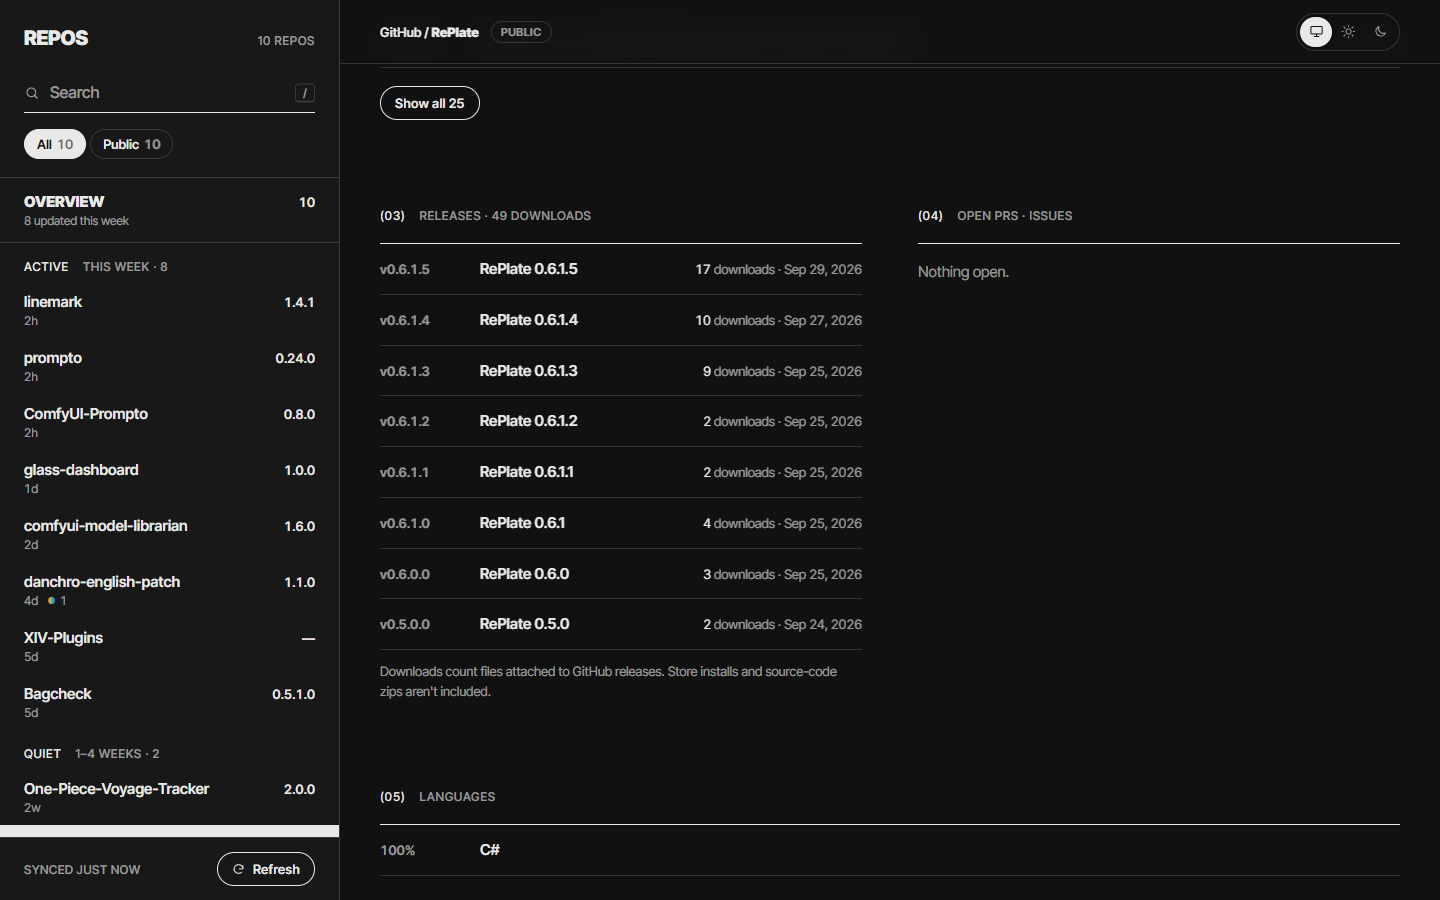
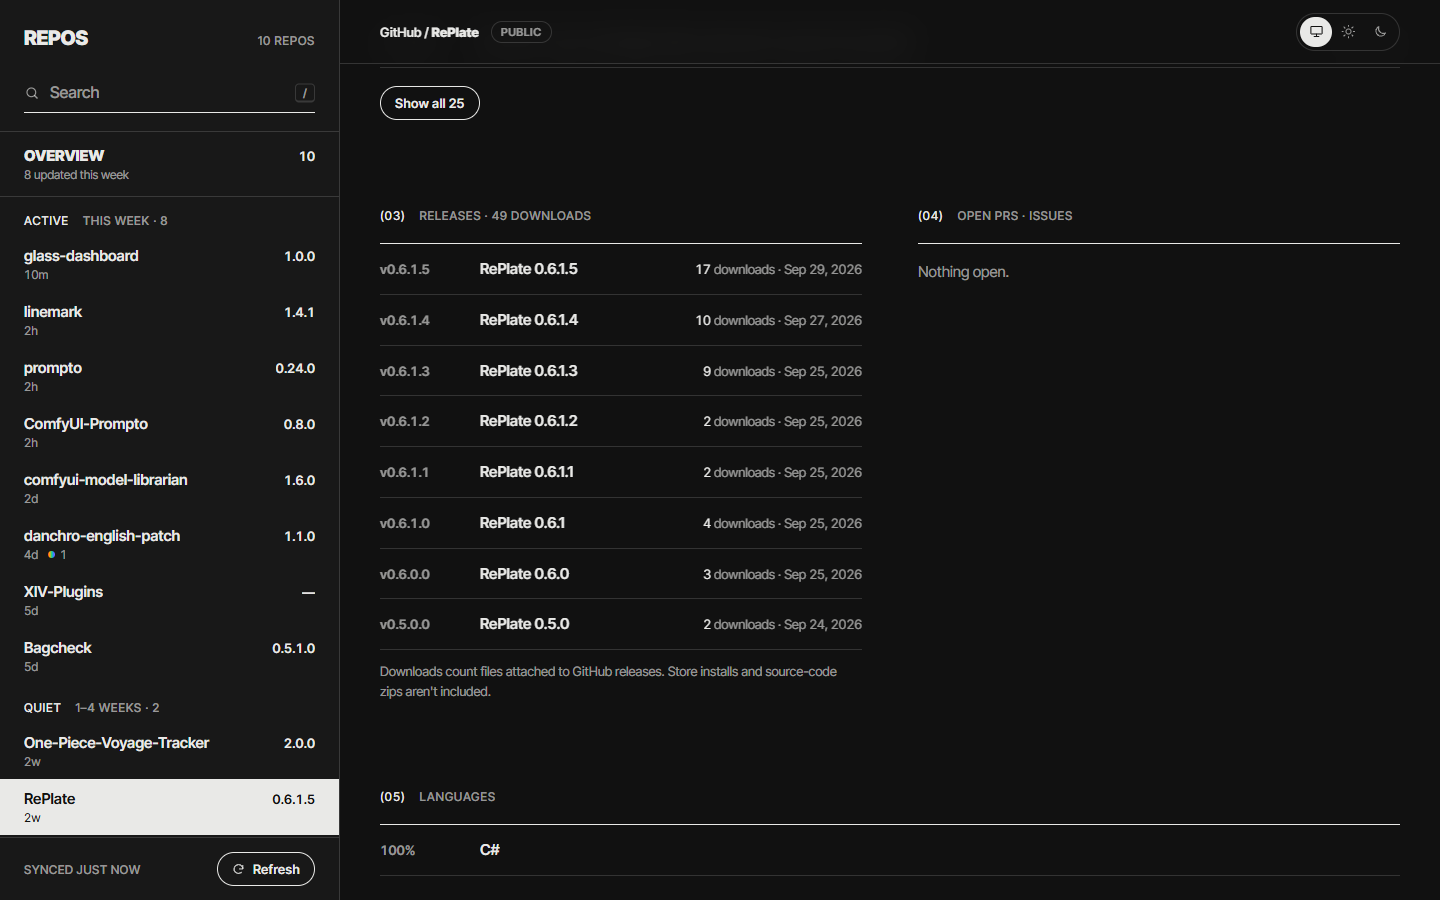
Design review fixes: generic data, colour rules, honest README
- Rail: no invented dash for a missing value (adapters say so themselves),
  values capped with an ellipsis, status dots turn ground-coloured under
  the selection fill
- Filter tabs: none for a badge every item has, up to 8, row hidden when
  there's nothing to filter
- Long keys and labels wrap inside their column; long names ellipsise in
  the top bar without clipping focus rings
- One crumb grammar for the overview and items
- JSON source and page understand future dates ("+5w", "in 5 weeks")
- ADAPTERS.md: tone rules (accent is rare, fail only for broken things)
  and the no-placeholder rule
- README: stale-repo wording, external font and three.js loads disclosed,
  screenshots recaptured

diff --git a/public/index.html b/public/index.html
@@ -89,6 +89,7 @@ button { font: inherit; color: inherit; }
   font: 600 11px "Inter Tight", sans-serif; color: var(--mute); text-align: center;
 }
 .tabs { display: flex; flex-wrap: wrap; gap: 6px 4px; margin-top: 16px; }
+.tabs[hidden] { display: none; }
 .tabs button {
   padding: 6px 12px; border: 1px solid var(--line); border-radius: 999px; background: transparent; cursor: pointer;
   font-size: 13px; font-weight: 600; transition: background 0.25s var(--ease), color 0.25s var(--ease), border-color 0.25s;
@@ -113,7 +114,7 @@ button { font: inherit; color: inherit; }
 .row:hover > *, .row[aria-current="page"] > *, .row:hover .row-sub, .row[aria-current="page"] .row-sub { color: var(--bg); }
 .row:focus-visible { outline-offset: -2px; }
 .row-name { min-width: 0; overflow: hidden; text-overflow: ellipsis; white-space: nowrap; font-size: 15px; font-weight: 600; }
-.row-ver { font-size: 13px; font-weight: 600; font-variant-numeric: tabular-nums; }
+.row-ver { max-width: 140px; justify-self: end; overflow: hidden; text-overflow: ellipsis; white-space: nowrap; font-size: 13px; font-weight: 600; font-variant-numeric: tabular-nums; }
 .row-sub { grid-column: 1 / -1; display: flex; align-items: center; gap: 10px; font-size: 12px; color: var(--mute); font-variant-numeric: tabular-nums; }
 .row-overview { padding-top: 14px; padding-bottom: 14px; border-bottom: 1px solid var(--line); }
 .row-overview .row-name { font-weight: 900; text-transform: uppercase; letter-spacing: -0.01em; }
@@ -125,6 +126,8 @@ button { font: inherit; color: inherit; }
 .mark--plain i { display: none; }
 .mark--fail i { background: var(--err); }
 .mark--pending i { background: var(--warn); }
+.row:hover .mark--fail i, .row[aria-current="page"] .mark--fail i,
+.row:hover .mark--pending i, .row[aria-current="page"] .mark--pending i { background: var(--bg); }
 .mark--new i { width: 14px; height: 2px; border-radius: 1px; background: var(--prism); }
 .mark .ico { font-size: 12px; }
 
@@ -158,6 +161,8 @@ button { font: inherit; color: inherit; }
   -webkit-backdrop-filter: blur(14px); backdrop-filter: blur(14px); border-bottom: 1px solid var(--line);
 }
 .crumb { display: flex; align-items: center; gap: 12px; min-width: 0; font-size: 13px; font-weight: 600; }
+.crumb-name { min-width: 0; overflow: hidden; text-overflow: ellipsis; white-space: nowrap; }
+.crumb .pill { flex-shrink: 0; }
 .crumb a { text-decoration: none; white-space: nowrap; }
 .crumb a:hover { text-decoration: underline; text-underline-offset: 3px; }
 .crumb .muted { color: var(--mute); font-weight: 500; }
@@ -236,7 +241,9 @@ button { font: inherit; color: inherit; }
 .list a *, .links a * { transition: color 0.3s var(--ease); }
 .list a:hover, .list a:hover *, .links a:hover, .links a:hover * { color: var(--bg); }
 .list a:hover .mark--fail i { background: var(--bg); }
-.list .k { font-size: 13px; font-weight: 600; color: var(--mute); font-variant-numeric: tabular-nums; }
+.list .k { min-width: 0; overflow-wrap: anywhere; font-size: 13px; font-weight: 600; color: var(--mute); font-variant-numeric: tabular-nums; }
+.list .k .mark { white-space: normal; align-items: baseline; }
+.list .k .mark i { flex-shrink: 0; align-self: center; }
 .list .t { font-weight: 600; min-width: 0; overflow-wrap: anywhere; }
 .list .t em { font-style: normal; font-weight: 500; color: var(--mute); }
 .list .r { font-size: 13px; color: var(--mute); font-variant-numeric: tabular-nums; white-space: nowrap; text-align: right; }
@@ -274,7 +281,7 @@ button { font: inherit; color: inherit; }
 .stats > div:nth-child(n + 5) { margin-top: 32px; }
 .stats b { display: block; font-size: clamp(44px, 5.6vw, 96px); font-weight: 900; line-height: 0.9; letter-spacing: -0.05em; font-variant-numeric: tabular-nums; }
 .stats span { display: block; margin-top: 12px; font-size: 12px; font-weight: 500; letter-spacing: 0.06em; text-transform: uppercase; color: var(--mute); }
-.attn a { grid-template-columns: 200px minmax(0, 1fr) auto; }
+.attn a { grid-template-columns: minmax(0, 200px) minmax(0, 1fr) auto; }
 
 /* Notices */
 .notice { max-width: 60ch; padding: 32px 0; }
@@ -413,13 +420,15 @@ button { font: inherit; color: inherit; }
   const rtf = new Intl.RelativeTimeFormat("en", { numeric: "auto" });
   const ago = (iso) => {
     if (!iso) return "never";
-    const s = (Date.now() - Date.parse(iso)) / 1000;
+    // Works both ways: "3 hours ago" for the past, "in 5 weeks" for the future
+    const diff = (Date.now() - Date.parse(iso)) / 1000, s = Math.abs(diff), dir = diff >= 0 ? -1 : 1;
     if (s < 60) return "just now";
-    if (s < 3600) return rtf.format(-Math.round(s / 60), "minute");
-    if (s < 86400) return rtf.format(-Math.round(s / 3600), "hour");
-    if (s < 86400 * 30) return rtf.format(-Math.round(s / 86400), "day");
-    if (s < 86400 * 365) return rtf.format(-Math.round(s / (86400 * 30)), "month");
-    return rtf.format(-Math.round(s / (86400 * 365)), "year");
+    if (s < 3600) return rtf.format(dir * Math.round(s / 60), "minute");
+    if (s < 86400) return rtf.format(dir * Math.round(s / 3600), "hour");
+    if (s < 86400 * 14) return rtf.format(dir * Math.round(s / 86400), "day");
+    if (s < 86400 * 60) return rtf.format(dir * Math.round(s / (86400 * 7)), "week");
+    if (s < 86400 * 365) return rtf.format(dir * Math.round(s / (86400 * 30)), "month");
+    return rtf.format(dir * Math.round(s / (86400 * 365)), "year");
   };
   const short = (iso) => {
     if (!iso) return "";
@@ -488,8 +497,11 @@ button { font: inherit; color: inherit; }
     // Filters come from the items' own badges (Public/Private for GitHub, your tags for JSON)
     const counts = new Map();
     state.data.items.forEach((it) => it.badges.forEach((b) => counts.set(b, (counts.get(b) || 0) + 1)));
-    const top = [...counts].sort((a, b) => b[1] - a[1]).slice(0, 4);
+    // A badge every item carries filters nothing, so it gets no tab
+    const top = [...counts].filter(([, n]) => n < state.data.items.length).sort((a, b) => b[1] - a[1]).slice(0, 8);
     if (state.filter !== "all" && !counts.has(state.filter)) state.filter = "all";
+    // With nothing to filter by, a lone "All" chip would be a control that does nothing
+    $("[data-tabs]").hidden = !top.length;
     $("[data-tabs]").innerHTML = [["all", "All", state.data.items.length], ...top.map(([b, n]) => [b, b, n])]
       .map(([v, label, n]) => `<button type="button" data-filter="${esc(v)}" aria-pressed="${state.filter === v}">${esc(label)}<span class="count">${n}</span></button>`).join("");
     document.querySelectorAll("[data-filter]").forEach((b) => b.addEventListener("click", () => { state.filter = b.dataset.filter; renderTabs(); renderRail(); }));
@@ -516,7 +528,7 @@ button { font: inherit; color: inherit; }
           ${rs.map((it) => `
             <a class="row" href="#/item/${encodeURIComponent(it.id)}" data-id="${esc(it.id)}" ${current === it.id ? 'aria-current="page"' : ""}>
               <span class="row-name">${esc(it.name)}</span>
-              <span class="row-ver">${it.short ? esc(it.short) : "—"}</span>
+              ${it.short ? `<span class="row-ver">${esc(it.short)}</span>` : ""}
               <span class="row-sub"><span>${short(it.updatedAt)}</span>${marks(it)}</span>
             </a>`).join("")}
         </section>`).join("")}
@@ -552,7 +564,9 @@ button { font: inherit; color: inherit; }
   };
 
   // Facts: a definition grid; absent values are said in words
-  const factsHtml = (facts) => !facts.length ? "" : `<dl class="facts rv">${facts.map((f) => {
+  const factsHtml = (all) => {
+    const facts = all.filter((f) => f.value || f.time);
+    return !facts.length ? "" : `<dl class="facts rv">${facts.map((f) => {
     let value = f.time ? esc(ago(f.time)) : esc(f.value);
     if (f.count != null && !f.time) value = `<span data-count="${f.count}">${esc(f.value)}</span>`;
     if (f.tone === "accent") value = `<span class="prism">${value}</span>`;
@@ -560,6 +574,7 @@ button { font: inherit; color: inherit; }
     const note = f.note || (f.time ? day(f.time) : "");
     return `<div><dt>${esc(f.label)}</dt><dd class="${f.absent ? "absent" : ""}">${value}${note ? `<small>${esc(note)}</small>` : ""}</dd></div>`;
   }).join("")}</dl>`;
+  };
 
   // Rows: key · title (note) · meta; rows with a link get the ink wipe
   const rowMeta = (r) => [
@@ -713,7 +728,7 @@ button { font: inherit; color: inherit; }
     const attn = items.flatMap((it) => it.attention.map((a) => ({ it, ...a })));
     const lede = `${items.length} ${nounOf(items.length, noun)}, ${week.length} updated this week.${overview.sentence ? ` ${overview.sentence}` : ""}`;
     state.sectionNo = 1;
-    setTitle(state.data.title, `<span>${esc(state.data.title)}</span><span class="muted">/ overview</span>`);
+    setTitle(state.data.title, `<span class="crumb-name"><span class="owner">${esc(state.data.title)} / </span><b>Overview</b></span>`);
     body.innerHTML = `
       ${errors.length ? `<div class="notice notice--inline rv">${errors.map((e) => `<p><b>${esc(e.source)} didn't load.</b> ${esc(e.message)}${e.hint ? ` ${esc(e.hint)}` : ""}</p>`).join("")}</div>` : ""}
       <p class="lede">${splitWords(lede)}</p>
@@ -742,7 +757,7 @@ button { font: inherit; color: inherit; }
   const renderItem = (it, animate) => {
     const d = state.detail.get(it.id);
     state.sectionNo = 1;
-    setTitle(it.name, `${it.url ? `<a href="${esc(it.url)}" target="_blank" rel="noopener">` : "<span>"}<span class="owner">${esc(it.source)} / </span><b>${esc(it.name)}</b>${it.url ? "</a>" : "</span>"}${it.badges.map((b) => `<span class="pill">${esc(b)}</span>`).join("")}`);
+    setTitle(it.name, `${it.url ? `<a class="crumb-name" href="${esc(it.url)}" target="_blank" rel="noopener">` : `<span class="crumb-name">`}<span class="owner">${esc(it.source)} / </span><b>${esc(it.name)}</b>${it.url ? "</a>" : "</span>"}${it.badges.map((b) => `<span class="pill">${esc(b)}</span>`).join("")}`);
     body.innerHTML = `
       <p class="lede">${it.description ? splitWords(it.description) : `<span class="none">${splitWords("No description.")}</span>`}</p>
       ${factsHtml(it.facts)}

diff --git a/README.md b/README.md
@@ -23,9 +23,9 @@ Glass Dashboard is a template for building your own dashboard: your GitHub repos
 - 🐙 **GitHub built in** — versions from manifest and project files, release and registry download counts, unreleased commits, CI state, open issues and PRs, and store links found in each README.
 - 💻 **Your local clones** — uncommitted changes and unpushed commits, merged into the matching GitHub repo.
 - 📈 **Activity over 1D, 1W, 1M or 1Y** — real timestamps counted by hour, six hours, day or week on your own clock.
-- 🚩 **Needs attention** — failing checks, waiting work and quiet items collected on the overview.
+- 🚩 **Needs attention** — failing checks, waiting work, unpushed commits and stale repos collected on the overview.
 - 🔮 **The glass band, light or dark** — each item's name in heavy type, refracted through a rotating glass knot; follows your system theme or your pick.
-- 🔒 **Local and read-only** — listens on `127.0.0.1` only, refuses other sites, and never writes anywhere.
+- 🔒 **Local and read-only** — your data stays on `127.0.0.1`, other sites are refused, and nothing is ever written.
 
 ## 📸 Screenshots
 
@@ -142,7 +142,7 @@ Dates can be absolute (`"2026-10-12T14:00:00Z"`) or relative to now (`"-3h"`, `"
 
 An adapter is a file in `adapters/` that exports `{ list(options, ctx), detail?(id, options, ctx), ttlMinutes? }`. `list` returns the items (and optional overview stats, sections and a sentence); `detail`, if present, is called when an item is opened and returns extra sections. Name it in the config with `"adapter": "your-file-name"`.
 
-`adapters/folders.mjs` is a complete 20-line example: every subfolder of a directory becomes an item. The full item shape and the section and row fields are in **[docs/ADAPTERS.md](docs/ADAPTERS.md)**.
+`adapters/folders.mjs` is a short, complete example: every subfolder of a directory becomes an item. The full item shape and the section and row fields are in **[docs/ADAPTERS.md](docs/ADAPTERS.md)**.
 </details>
 
 <details>
@@ -151,6 +151,7 @@ An adapter is a file in `adapters/` that exports `{ list(options, ctx), detail?(
 - The server listens on `127.0.0.1` only and answers only to `localhost` and `127.0.0.1`, which blocks DNS-rebinding pages from reading your data.
 - API calls from other websites are refused, so a page you visit can't read the dashboard or make it refetch.
 - Only `public/` is served: your config, data files and adapters are never sent to the browser.
+- The page itself loads the Inter Tight font from Google Fonts and three.js (for the glass band) from jsDelivr. Your data is never part of those requests. Offline, the page still works, with the system font and a plain title in place of the glass band.
 - The bundled adapters only read. The git source never fetches. Registry download counts are read from the Comfy Registry and npm public APIs, which receive only the package name.
 - If one source fails (gh signed out, a JSON typo), the others still load and the overview says which one failed and why.
 </details>

diff --git a/docs/ADAPTERS.md b/docs/ADAPTERS.md
@@ -49,7 +49,7 @@ export default { list, ttlMinutes: 1 };
 
 ## Items
 
-Every field except `id` and `name` is optional. Anything missing is simply not shown.
+Every field except `id` and `name` is optional. Anything missing is simply not shown: the page never invents a placeholder. If "nothing" is itself the information (no version, never released), say it in words with `absent: true` or a `short` of your own.
 
 | Field | Type | Shown as |
 |---|---|---|
@@ -69,7 +69,16 @@ Every field except `id` and `name` is optional. Anything missing is simply not s
 | `links` | `{ label, href }[]` | The link grid at the bottom of the item page |
 | `sections` | section[] | Lists on the item page, in order |
 
-Dates are ISO strings (`2026-10-12T14:00:00Z`). The JSON source also accepts relative times: `-30m`, `-3h`, `-2d`, `-1w`.
+Dates are ISO strings (`2026-10-12T14:00:00Z`). The JSON source also accepts times relative to now: `-30m`, `-3h`, `-2d`, `-1w` in the past and `+5w` in the future (a future fact `time` reads "in 5 weeks").
+
+### Tones: spend colour sparingly
+
+The page is ink on paper; colour is a signal, so it only means something if it's rare.
+
+- `accent` is the prism. Use it for **one thing per item** that's done but not yet out: unreleased commits, tasks due, the next milestone. Never for decoration or emphasis.
+- `fail` is red, only for something broken: a failing check, a service that's down.
+- `pending` is amber, for work in progress that needs a hand: uncommitted changes, a running job.
+- Everything else gets no tone. A row or fact without a tone is the normal case.
 
 ### Marks
 
